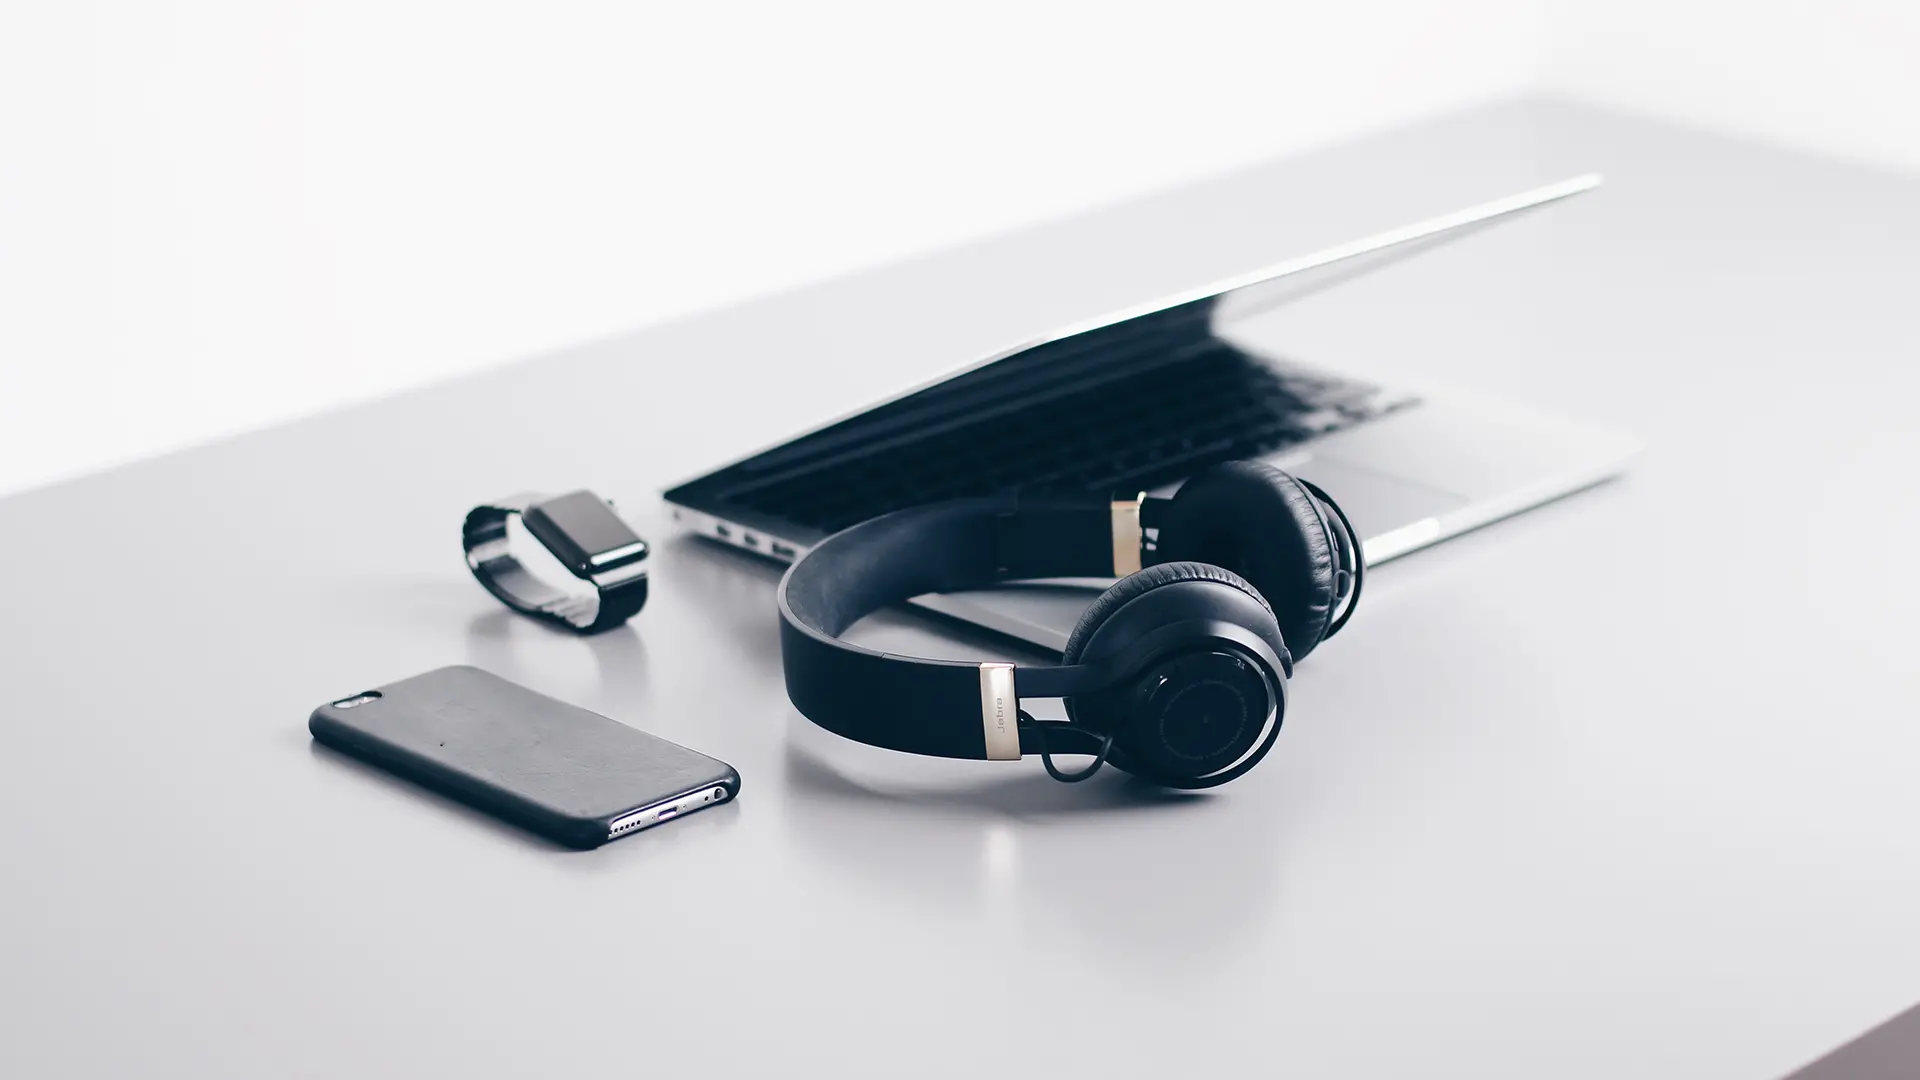
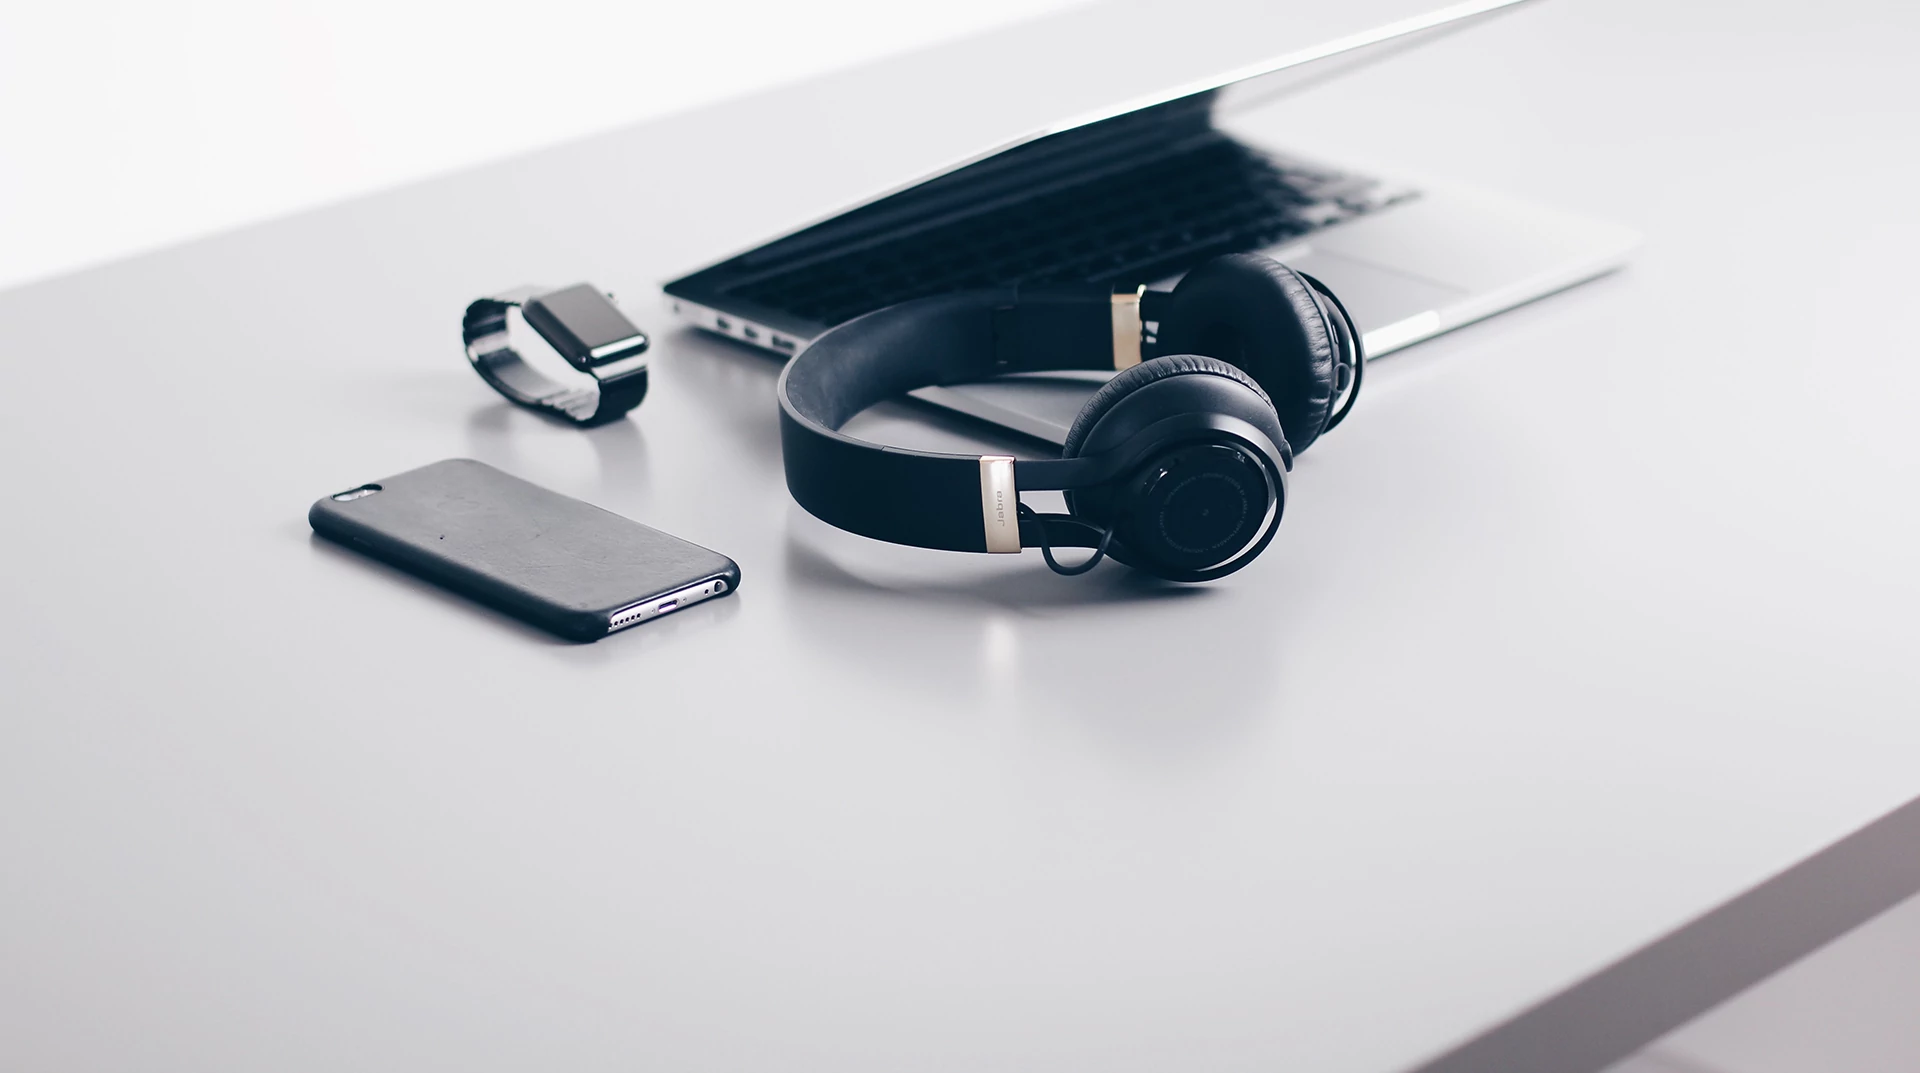
Fix header image and make component sort.

diff --git a/src/pages/parts/Menu.js b/src/pages/parts/Menu.js
@@ -1,13 +1,13 @@
 import React,{Fragment, useState } from "react";
 import {NavLink} from 'react-router-dom';
 import { withTranslation, Trans  } from 'react-i18next';
-import i18n from './i18n';
+import i18n from '../../component/i18n';
 
 import  {useSelector, useDispatch} from 'react-redux';
 
 import Navbar from "react-bootstrap/Navbar";
 import Nav from "react-bootstrap/Nav";
-import goalImg from '../images/logo_white.png';
+import goalImg from '../../images/logo_white.png';
 
 import Container from 'react-bootstrap/Container';
 import Row from 'react-bootstrap/Row';
@@ -15,7 +15,7 @@ import Col from 'react-bootstrap/Col';
 import Button from 'react-bootstrap/Button';
 
 import {isEmpty, isLoaded} from "react-redux-firebase";
-import {myLang} from "../store/language/action";
+import {myLang} from "../../store/language/action";
 
 function MenuPrepare (){
 

diff --git a/src/pages/main.js b/src/pages/main.js
@@ -14,7 +14,7 @@ function MainPrepare() {
         return (
             <Fragment>
                 <Welcome/>
-                <div className="section-services section">
+                <section  className="services section part">
                     <Container>
                         <Row className='boxes'>
                             <Col lg='12'>
@@ -25,7 +25,7 @@ function MainPrepare() {
                             <ContainerService backpath='m'  />
                         </Row>
                     </Container>
-                </div>
+                </section>
                 <AboutMain isheader='false' titlei18nkey='about_title' titlei18text='About Us'/>
                 <ContactForm isheader='false' titlei18nkey='contact_title' titlei18text='Contact us'/>
             </Fragment>

diff --git a/src/pages/Services.js b/src/pages/Services.js
@@ -12,14 +12,14 @@ import ContainerService from "./parts/ContainerService";
 function ServicesPrepare (){
         return(
             <Fragment>
-                <div className="section-services section">
+                <section className="section-services section page">
                     <Title isheader='true' titlei18nkey='services_title' titlei18text='Services'/>
                     <Container >
                         <Row className='boxes'>
                                 <ContainerService backpath='p' />
                         </Row>
                     </Container>
-                </div>
+                </section>
 
             </Fragment>
         )

diff --git a/src/App.js b/src/App.js
@@ -8,8 +8,8 @@ import {useFirebaseConnect} from "react-redux-firebase";
 
 import  {useDispatch} from 'react-redux';
 
-import Header from './component/Header';
-import Footer from "./component/Footer";
+import Header from './pages/parts/Header';
+import Footer from "./pages/parts/Footer";
 
 import Main from './pages/Main';
 import Services from "./pages/Services";

diff --git a/src/style/Welcome.sass b/src/style/Welcome.sass
@@ -3,7 +3,7 @@
   align-items: center
   background-image: url(../images/main-2-fullhd.webp)
   background-repeat: no-repeat
-  background-position: center
+  background-position: top center
   height: calc(100vh - 64px)
   max-height: 600px
   box-shadow: inset 0 0 0 2000px $repair-blue_lighter

diff --git a/src/style/Title.sass b/src/style/Title.sass
@@ -10,7 +10,7 @@
   flex-direction: column
   background-image: url(../images/main-2-fullhd.webp)
   background-repeat: no-repeat
-  background-position: center 29%
+  background-position: top center
   box-shadow: inset 0 0 0 2000px $repair-blue_lighter
 
 .header-section-title__title

diff --git a/src/style/BootstrapSettings.sass b/src/style/BootstrapSettings.sass
@@ -45,7 +45,7 @@
 .btn-light
   background-color: #dedddd
 button.active
-  box-shadow: 0px 0px 7px 0.2rem rgba(216, 217, 219, 0.5)
+  box-shadow: 0px 0px 4px 0.2rem rgba(216, 217, 219, 0.5)
 
 @media screen and (max-width: 991px)
   .bg-dark

diff --git a/src/pages/parts/Header.js b/src/pages/parts/Header.js
@@ -1,5 +1,5 @@
 import React,{Component} from 'react';
-import Menu from  '../component/Menu';
+import Menu from './Menu';
 class Header extends  Component{
     render(){
         return(

diff --git a/src/style/Contact.sass b/src/style/Contact.sass
@@ -1,8 +1,8 @@
 .fixwidth
   min-height: 1px
 
-.section-contact.part
-  padding: 20px 0px
+//.contact.part
+//  padding: 20px 0px
 
 @media (max-width: 767.98px)
   .contact__title

diff --git a/src/style/index.sass b/src/style/index.sass
@@ -26,6 +26,10 @@ div.section
   //padding: 20px 0px
 
 
+.contact.part, .about-main.part,.services.part
+  padding: 20px 0px
+
+
 
 
 @import "./BootstrapSettings.sass"

diff --git a/src/style/About.sass b/src/style/About.sass
@@ -1,6 +1,6 @@
 .about-main.part
   background-color:  $repair-blue
-  padding: 29px 0px
+  //padding: 29px 0px
 .about-main.part p,.about-main.part h2
   color: #fff
 

diff --git a/src/style/Menu.sass b/src/style/Menu.sass
@@ -45,6 +45,7 @@
   height: 30px
   padding: 0.19rem 0.45rem
   line-height: 0px
+
 button.active
   background-color: #b6c5d2
   border-color: #d3d9df
